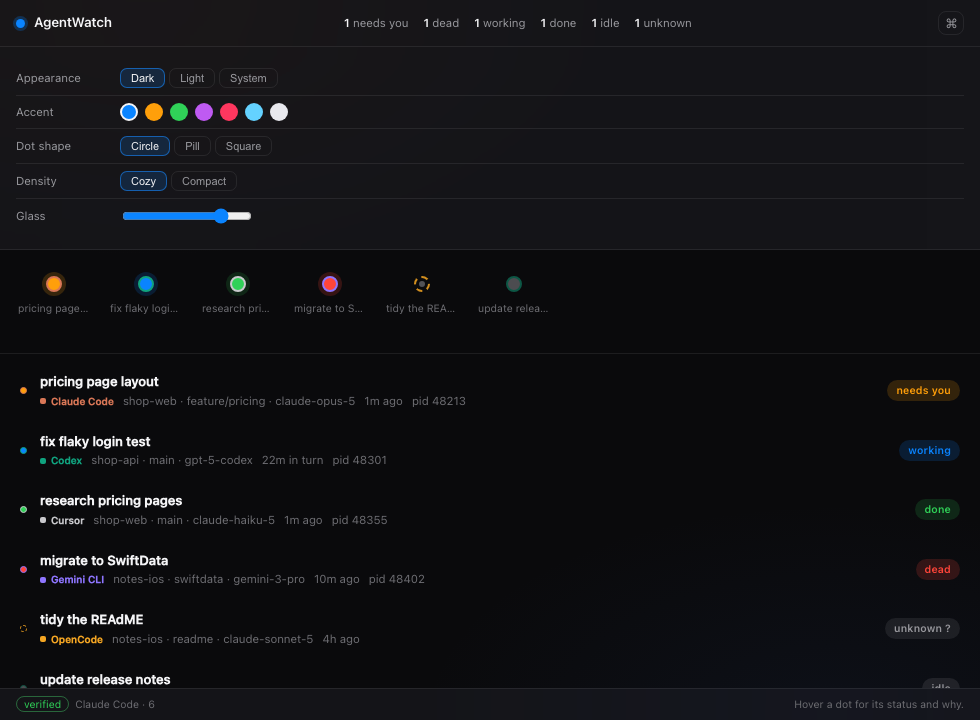
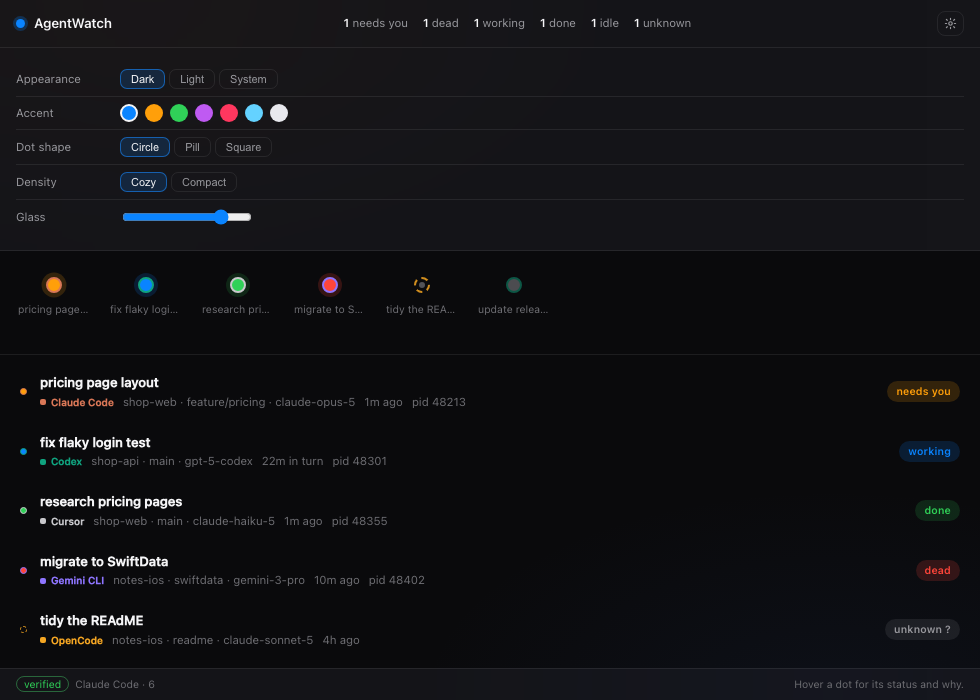
docs(SPEC-005): appearance contract; handoff for session 3

diff --git a/docs/HANDOFF.md b/docs/HANDOFF.md
@@ -1,6 +1,6 @@
 # Handoff — current state
 
-**Last updated:** 2026-11-09 (session 2)
+**Last updated:** 2026-11-09 (session 3)
 **Milestone:** M0.1 complete except the edge overlay · M0.2 (hooks) started
 **Build status:** ✅ compiling, 18 unit tests + 1 live test passing, app launches
 
@@ -18,7 +18,9 @@
 | Liveness proof | ✅ **verified end-to-end** — `tests/liveness_live.rs` |
 | Hook installer | ✅ idempotent, backed up, 7 tests |
 | Hook event socket | ✅ listener + event model, 6 tests |
-| Hook answering | ❌ not built — needs the helper binary |
+| Hook helper binary | ✅ `agentwatch-hook`, proven through the real binary |
+| Hook answering | ❌ not built |
+| Appearance drawer | ✅ 5 controls, live preview, persisted |
 | Theming | ❌ M0.3 |
 
 ## Evidence
@@ -96,3 +98,35 @@ Both are recorded in `03-decisions.md`. This is exactly why the live test exists
 2. Answering: helper blocks, app returns a decision, helper prints `hookSpecificOutput`.
 3. Edge overlay (M0.1b).
 4. Theming (M0.3).
+
+---
+
+# Session 3
+
+## Shipped
+- **`agentwatch-hook` helper** — reads Claude's payload on stdin, forwards over the socket,
+  **always exits 0**, 400 ms timeouts. A missing app is invisible to the agent.
+- **Payload normaliser** (`hooks/forward.rs`) — the only file that knows Claude's field
+  names. Tolerates missing fields, ignores garbage, never panics.
+- **Proven pipeline** — `tests/hook_pipeline.rs` runs the *real binary* with a *real payload*
+  over a *real socket* into the *real store*: dot turns amber, `certain`, then clears on
+  `PostToolUse`.
+- **Appearance drawer (SPEC-005)** — appearance, accent, dot shape, density, glass. Live
+  preview, no Apply button. Persisted in `localStorage`.
+
+## Current counts
+45 Rust tests · 6 spec files · 4 ADRs · 18 decisions
+
+## Next
+1. **Answering** — helper blocks, app returns a decision, helper prints `hookSpecificOutput`.
+   This is the last hard piece of M0.2 and the real differentiator.
+2. Inbox list with `1–9` (needs the answer path to be useful).
+3. Edge overlay (M0.1b).
+4. Move `prefs` from localStorage into `config.json` (M0.3b).
+
+## Traps added this session
+| Trap | Detail |
+|---|---|
+| A hook must never fail the agent | every error path returns, `main` exits 0 unconditionally |
+| Missing ack must not block | 400 ms read timeout; the write result is ignored |
+| `localStorage` is per-webview | the overlay window will need the same prefs — move to config before that |

diff --git a/docs/specs/SPEC-005-appearance.md b/docs/specs/SPEC-005-appearance.md
@@ -1,0 +1,41 @@
+# SPEC-005 — Appearance
+
+Status: **shipped (client-side); persistence moves to the Rust config in M0.3b**
+Related: D-014
+
+## Principle
+
+**Appearance is data, not code.** Every visual decision is a CSS custom property on `:root`.
+Changing a theme writes one attribute and no component re-renders. This is what makes
+"the user can change anything" cheap instead of a rewrite per setting.
+
+## Controls (shipped)
+
+| Control | Values | Affects |
+|---|---|---|
+| Appearance | Dark · Light · System | the whole surface palette |
+| Accent | 7 swatches (blue, orange, green, purple, pink, cyan, white) | brand mark, selected control, focus ring |
+| Dot shape | Circle · Pill · Square | `--dot-radius`, `--dot-w` |
+| Density | Cozy · Compact | row padding, dot size |
+| Glass | 0 → 30 px | backdrop blur only |
+
+Live preview: no Apply button. Preferences persist in `localStorage` under
+`agentwatch.prefs`.
+
+## Rules
+
+1. **Status colours are never user-editable.** Amber must always mean "needs you". A theme
+   that could make `done` look like `needsYou` would break the only thing the board promises.
+2. **Accent never touches status.** It is chrome: the mark, the selected segment, focus.
+3. **Every surface is derived from a token.** No hard-coded colour outside `:root` and the
+   `[data-theme]` blocks.
+4. **Light appearance must keep contrast.** Status pills carry a text label regardless, so
+   colour-blind and greyscale users are unaffected (D-014).
+
+## Not yet built
+
+- Dot position (edge / notch / dock) — belongs with the edge overlay (M0.1b).
+- Theme export/import as JSON.
+- Typography controls (UI font, mono font, scale).
+- Moving `prefs` from `localStorage` into `config.json` so it survives a reinstall and can
+  be shared between the board and the overlay window.
